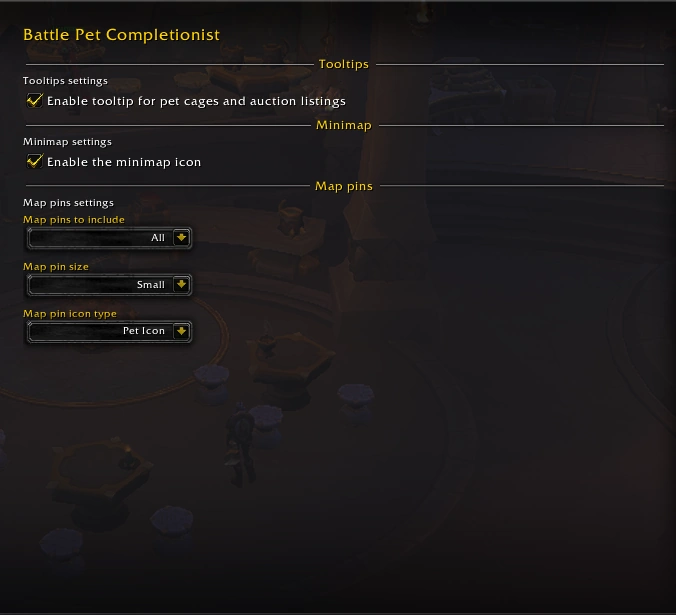
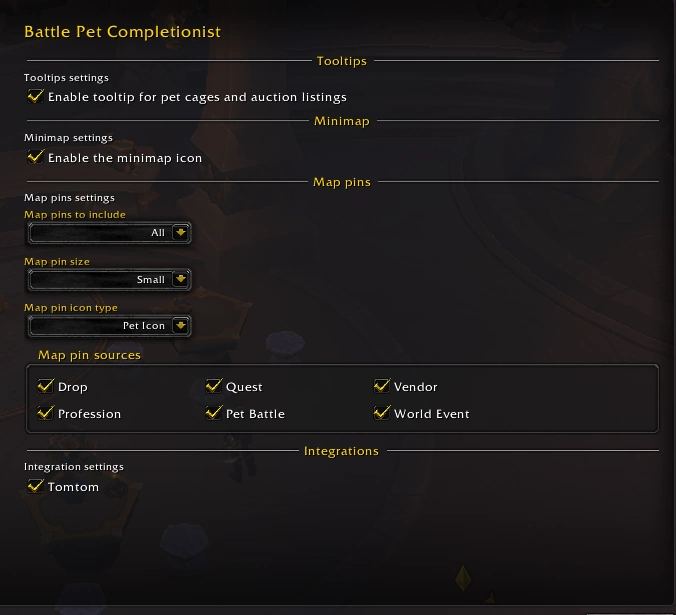
Updated options screenshot and readme

diff --git a/README.md b/README.md
@@ -5,7 +5,9 @@ This addon is 100% GPL-3 licensed, and will stay that way.
 
 ## Features
 * Displays the locations of all pets.
+* Filter the list of pets shown (in the options dialog)
 * Updates the tooltip for pets in the auction house (and pet cages in general), to show the source of the pet.
+* Create TomTom waypoints by shift clicking a map pin.
 
 The aim of the addon is to keep things simple, which is why there is no integration with the pet battles themselves - if you want help with that, please look at the [Pokemon Trainer NG](https://www.curseforge.com/wow/addons/pokemon-trainer-ng) addon.
 
